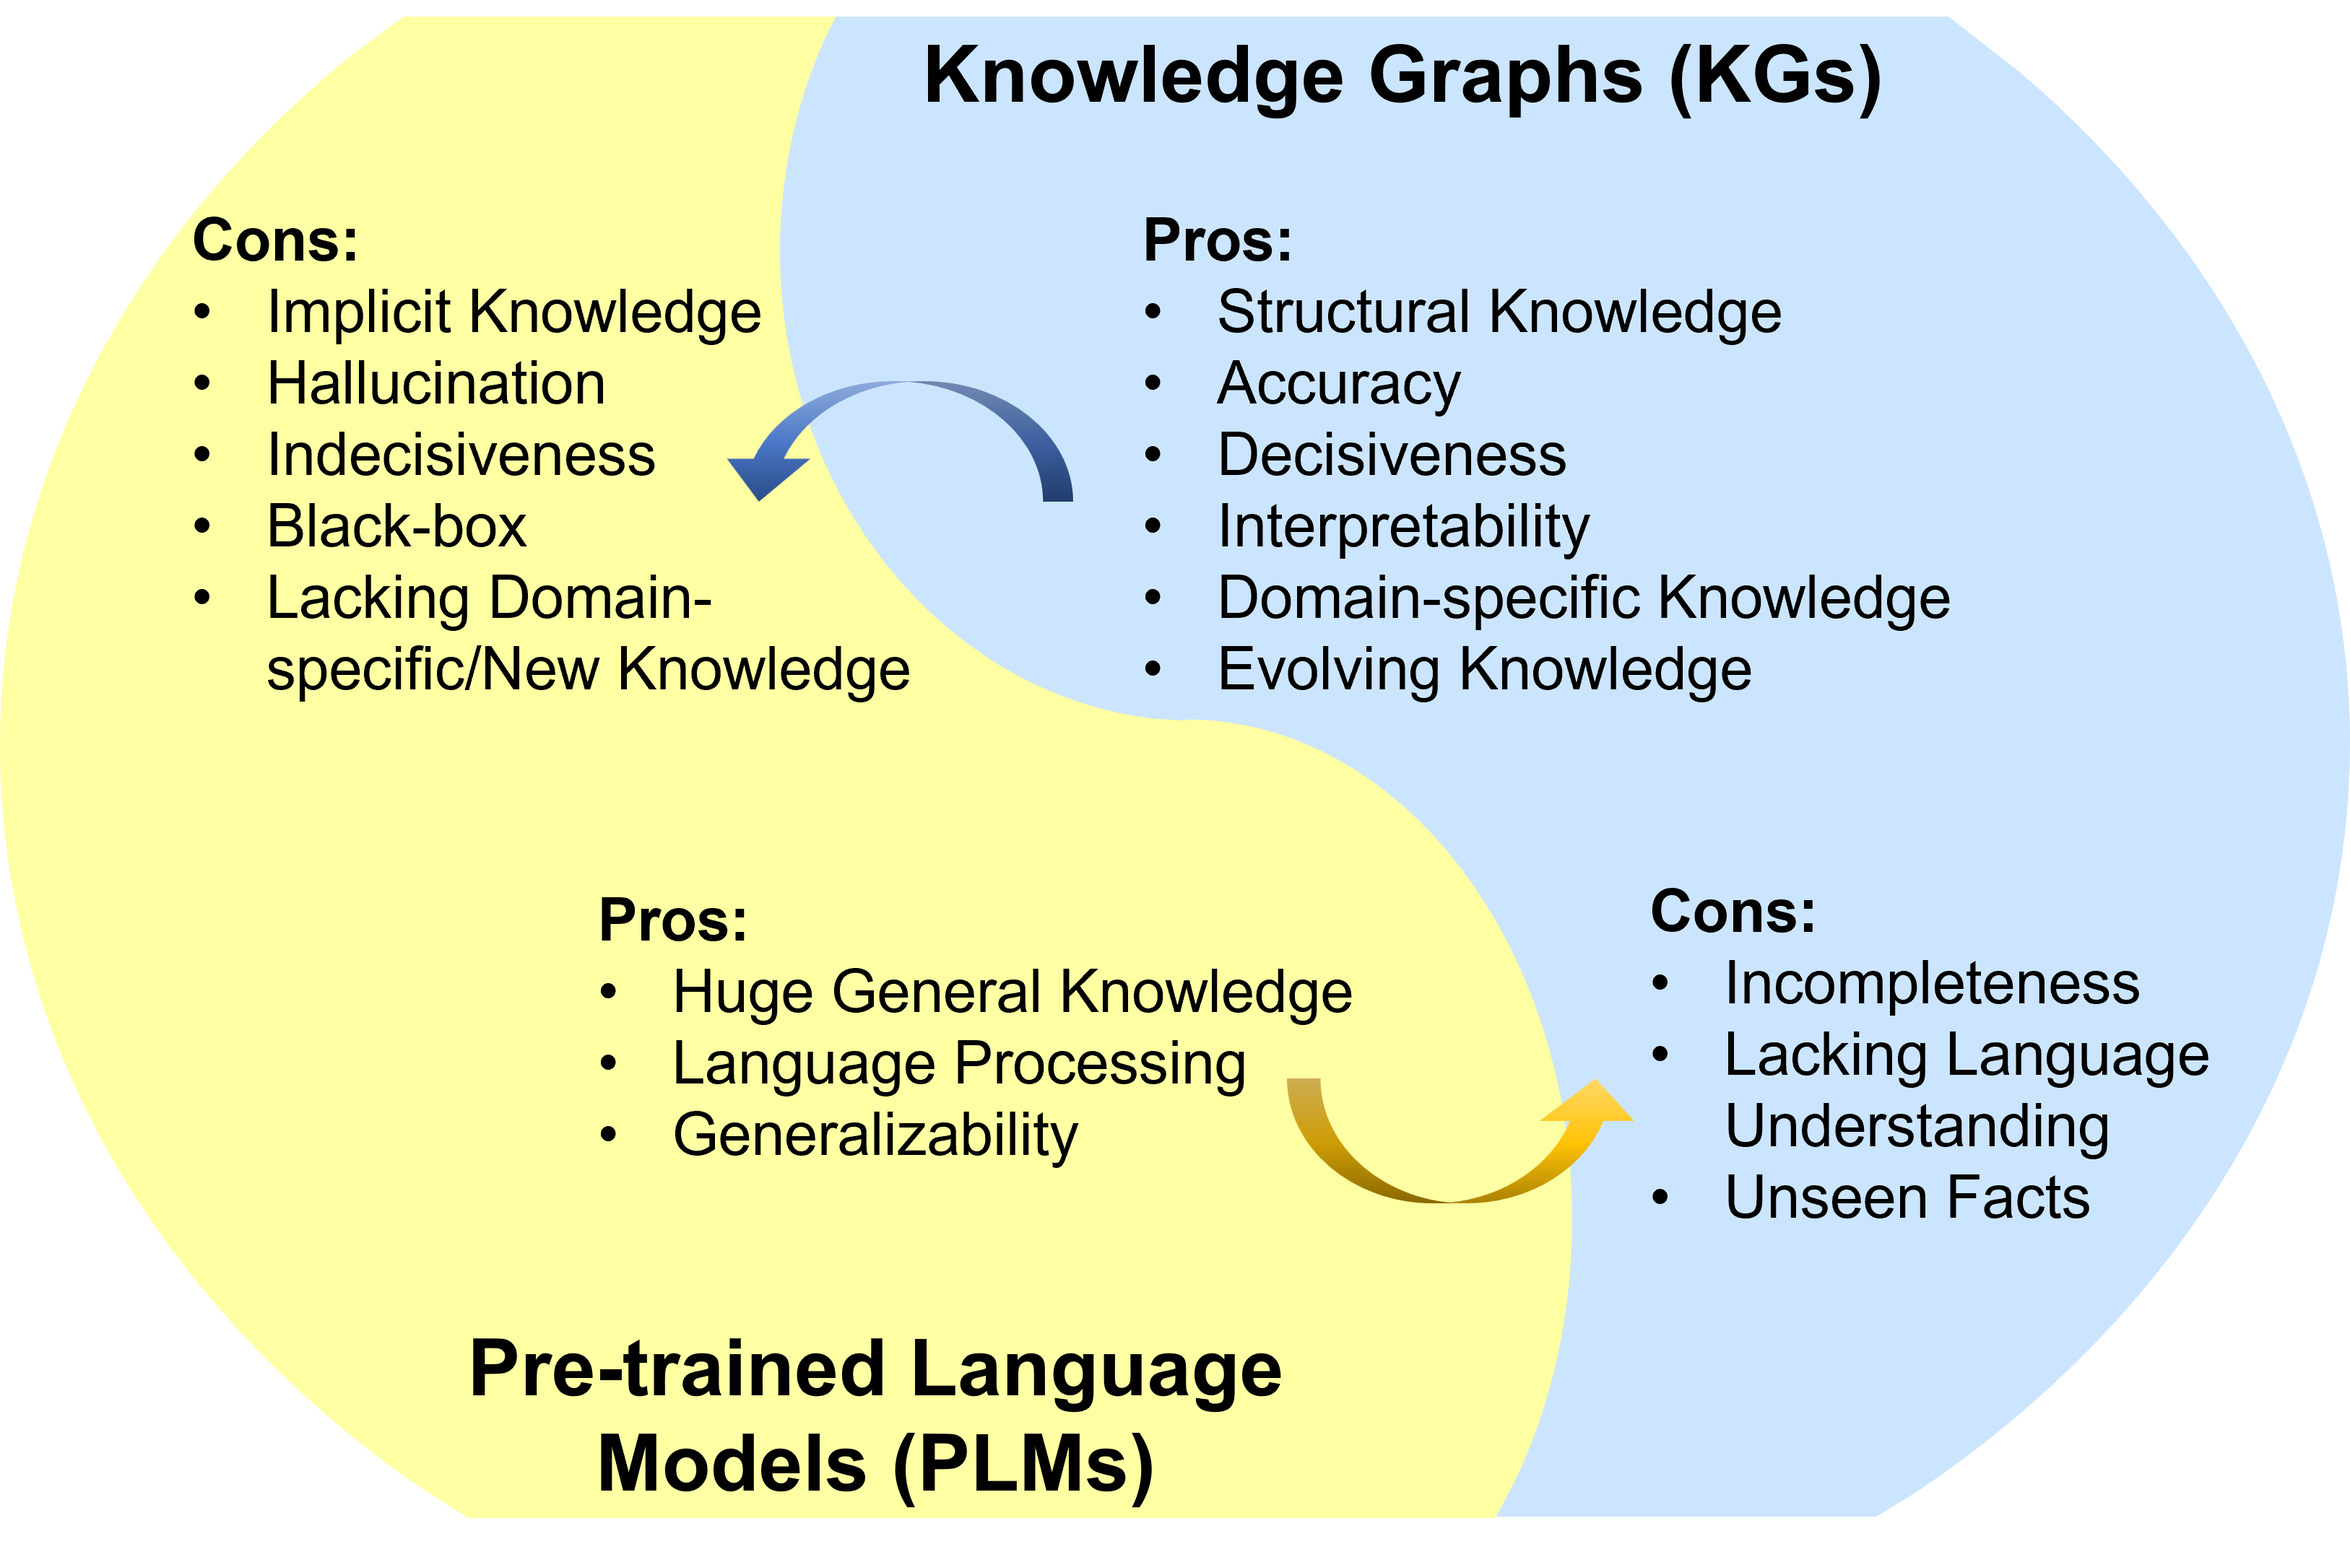
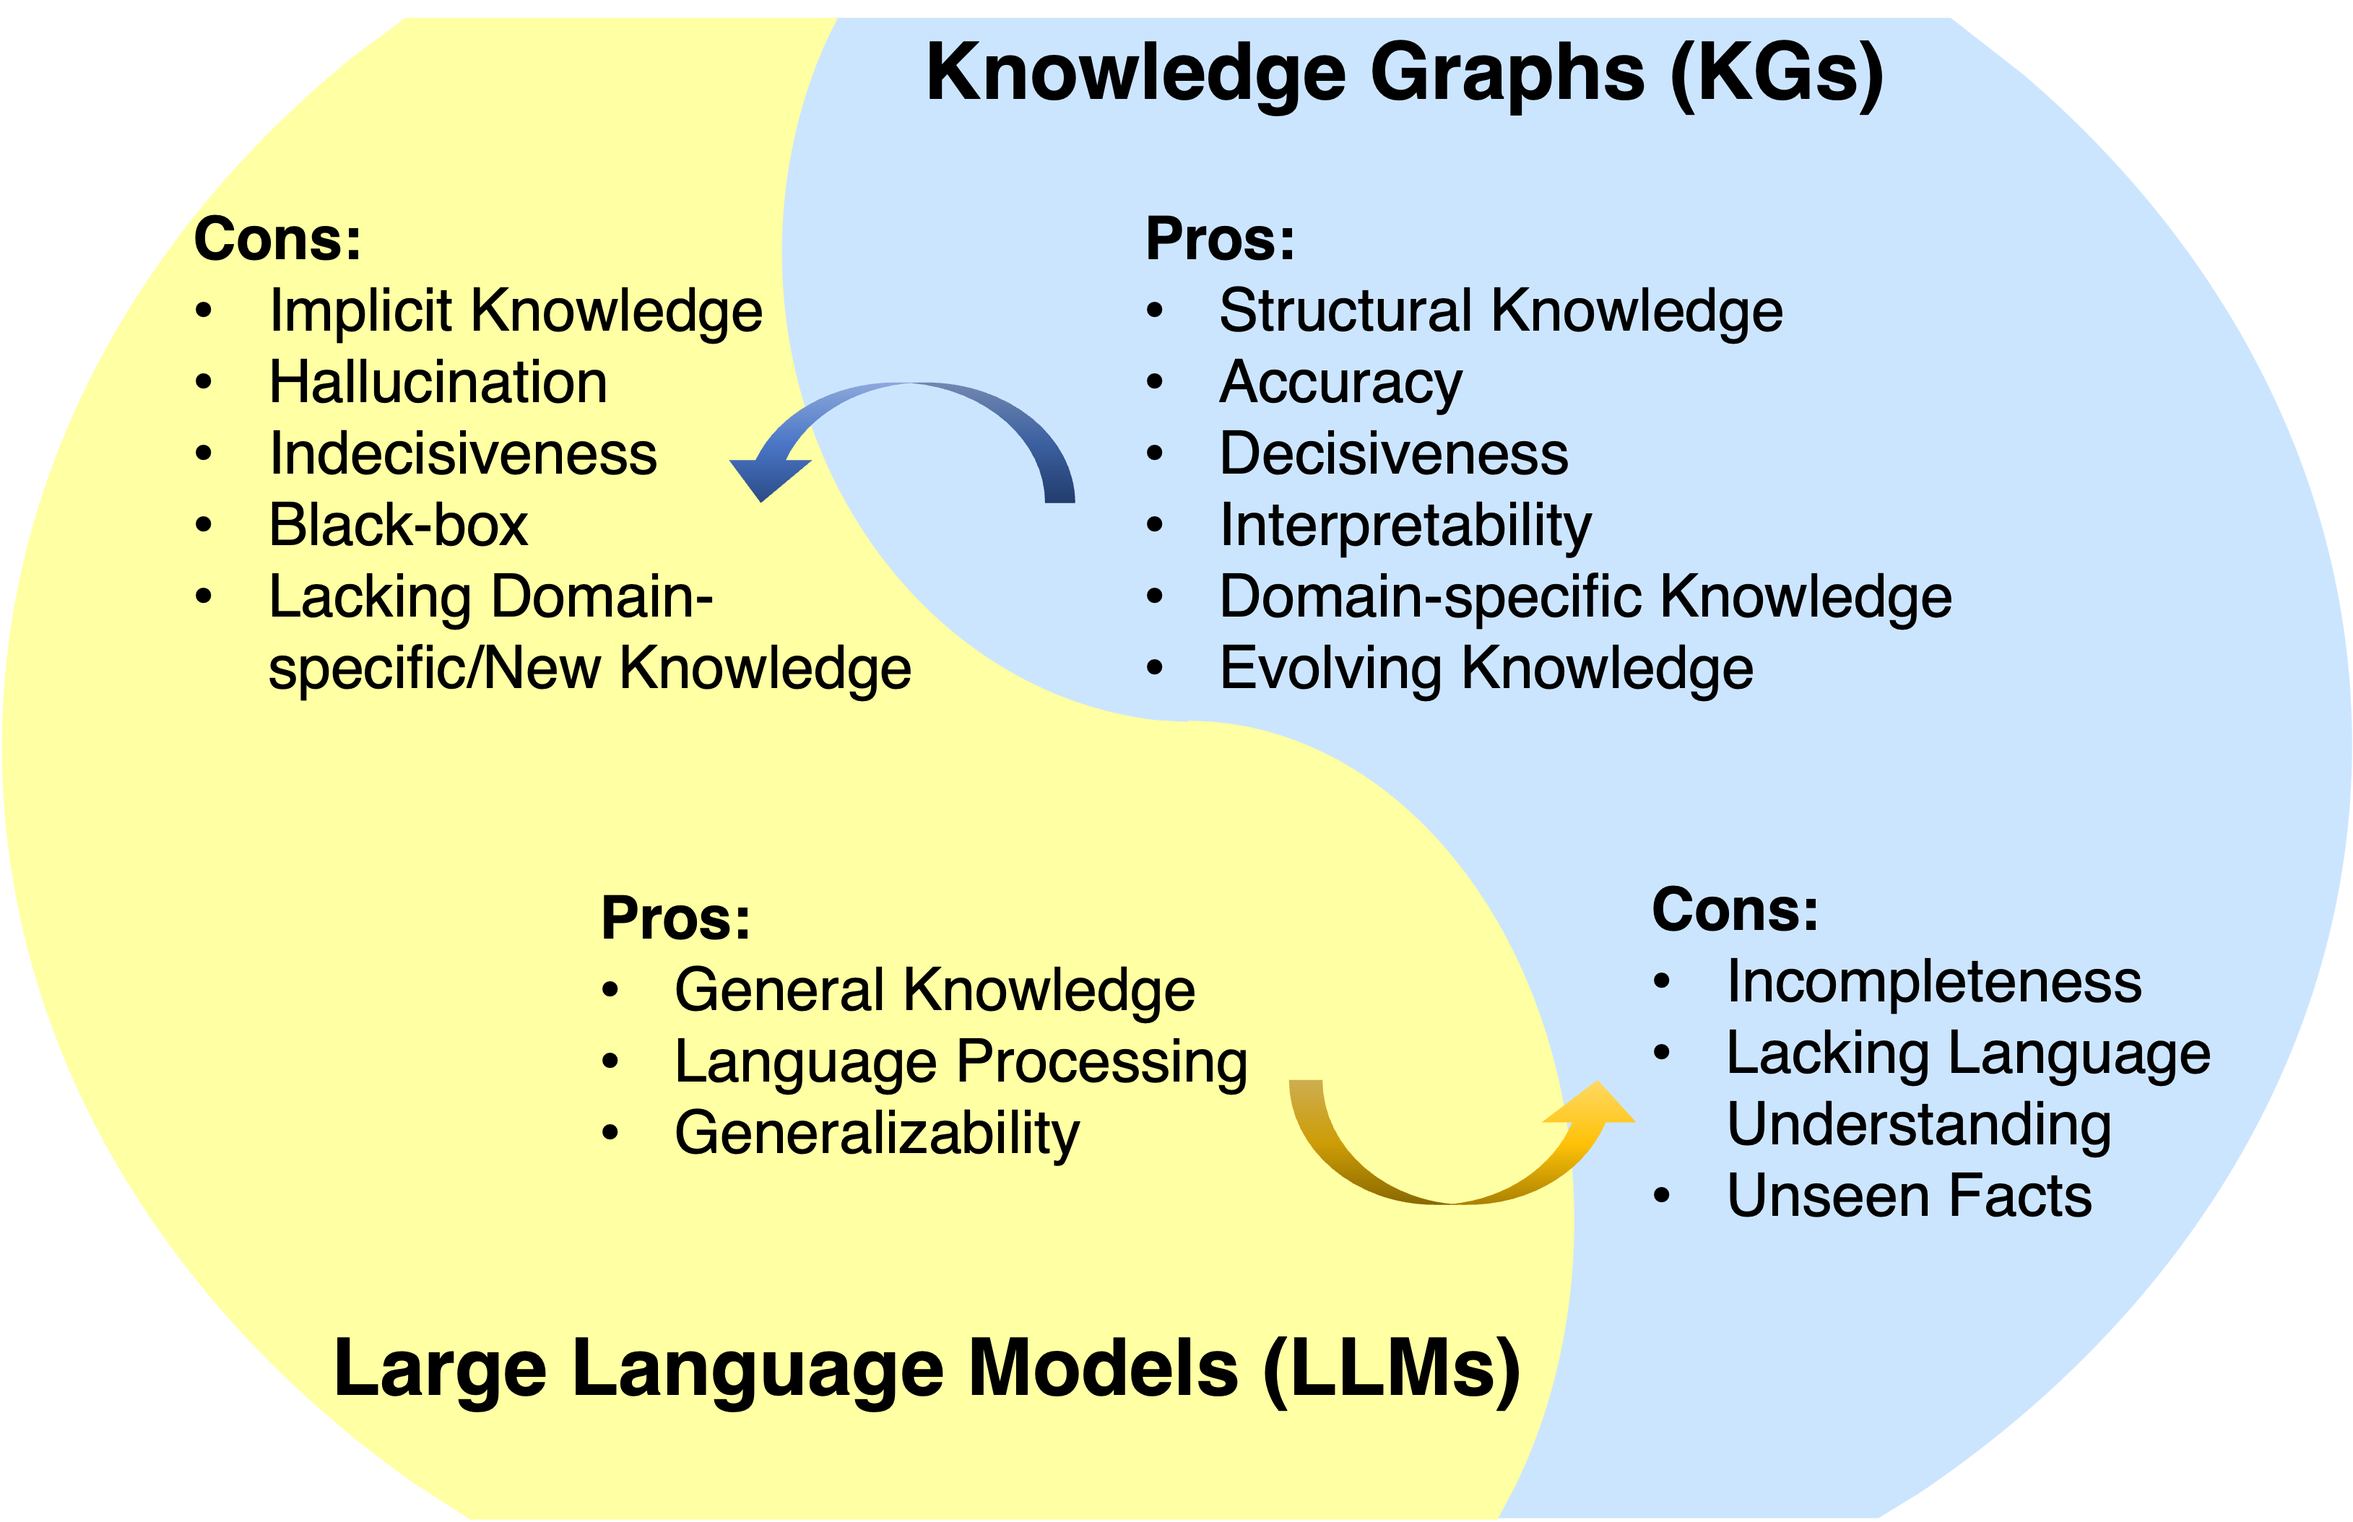
update frameworks

diff --git a/README.md b/README.md
@@ -6,14 +6,17 @@
  ![](https://img.shields.io/github/stars/RManLuo/Awesome-LLM-KG?color=yellow)
 ![](https://img.shields.io/github/forks/RManLuo/Awesome-LLM-KG?color=lightblue) 
 
-A collection of papers and resources about unifying pre-trained language models (PLMs) and knowledge graphs (KGs).
+A collection of papers and resources about unifying large language models (LLMs) and knowledge graphs (KGs).
 
-Large pre-trained language models (PLMs) have achieved remarkable success and generalizability in various applications. However, they often fall short of capturing and accessing factual knowledge. Knowledge graphs (KGs) are structured data models that explicitly store rich factual knowledge. Nevertheless, existing methods in KGs are inadequate in handling the incomplete and dynamically
-changing nature of real-world KGs. Therefore, it is natural to unify PLMs and KGs together and simultaneously leverage their advantages.
+Large language models (LLMs) have achieved remarkable success and generalizability in various applications. However, they often fall short of capturing and accessing factual knowledge. Knowledge graphs (KGs) are structured data models that explicitly store rich factual knowledge. Nevertheless, KGs are hard to construct and existing methods in KGs are inadequate in handling the incomplete and dynamically changing nature of real-world KGs. Therefore, it is natural to unify LLMs and KGs together and simultaneously leverage their advantages.
 
 <img src="figs/PLM_vs_KG.png" width = "600" />
 
-In this repository, we collect recent advances in unifying PLMs and KGs.  We present a roadmap that summarizes three general frameworks: *1) KGs for PLMs*, *2) PLMs for KGs*, and *3) Unified PLMs and KGs*.
+## News
+🔭 This is an under-developing project, you can hit the **STAR** and **WATCH** to follow the updates.
+* Our roadmap paper: 
+
+In this repository, we collect recent advances in unifying LLMs and KGs.  We present a roadmap that summarizes three general frameworks: *1) KG-enhanced LLMs*, *2) LLMs-augmented KGs*, and *3) Synergized LLMs + KGs*.
 
 <img src="figs/roadmap.png" width = "800" />
 
@@ -23,26 +26,27 @@ We also illustrate the involved techniques and applications.
 
 We hope this repository can help researchers and practitioners to get a better understanding of this emerging field. 
 
-🔭 This is an under-developing project, you can hit the **STAR** and **WATCH** to follow the updates.
+
 ## Table of Contents
 - [Awesome-LLM-KG](#awesome-llm-kg)
+  - [News](#news)
   - [Table of Contents](#table-of-contents)
-  - [Surveys](#surveys)
-  - [KGs for PLMs](#kgs-for-plms)
-    - [KGs for PLM Pre-training](#kgs-for-plm-pre-training)
-    - [KGs for PLM Inference](#kgs-for-plm-inference)
-    - [KGs for PLM Interpretability](#kgs-for-plm-interpretability)
+  - [Related Surveys](#related-surveys)
+  - [KG-enhanced PLMs](#kg-enhanced-plms)
+    - [KG-enhanced PLM Pre-training](#kg-enhanced-plm-pre-training)
+    - [KG-enhanced PLM Inference](#kg-enhanced-plm-inference)
+    - [KG-enhanced PLM Interpretability](#kg-enhanced-plm-interpretability)
   - [PLMs for KGs](#plms-for-kgs)
-    - [PLMs for KG Embedding](#plms-for-kg-embedding)
-    - [PLMs for KG Completion](#plms-for-kg-completion)
-    - [PLMs for KG to Text Generation](#plms-for-kg-to-text-generation)
-    - [PLMs for KG Question Answering](#plms-for-kg-question-answering)
-  - [Unified PLMs and KGs](#unified-plms-and-kgs)
+    - [PLM-augmented KG Embedding](#plm-augmented-kg-embedding)
+    - [LLM-augmented KG Completion](#llm-augmented-kg-completion)
+    - [LLM-augmented KG to Text Generation](#llm-augmented-kg-to-text-generation)
+    - [LLM-augmented KG Question Answering](#llm-augmented-kg-question-answering)
+  - [Synergized LLMs + KGs](#synergized-llms--kgs)
     - [Knowledge Representation](#knowledge-representation)
     - [Reasoning](#reasoning)
   - [Applications](#applications)
     - [Recommendation](#recommendation)
-## Surveys
+## Related Surveys
 
 * A Survey on Knowledge-Enhanced Pre-trained Language Models (Arxiv, 2023) [[paper]](https://arxiv.org/pdf/2212.13428.pdf)
 * A Survey of Knowledge-Intensive NLP with Pre-Trained Language Models (Arxiv, 2022) [[paper]](https://arxiv.org/pdf/2202.08772.pdf)
@@ -50,15 +54,15 @@ We hope this repository can help researchers and practitioners to get a better u
 * Generative Knowledge Graph Construction: A Review (Arxiv, 2022) [[paper]](https://arxiv.org/pdf/2210.12714.pdf)
 * Knowledge Enhanced Pretrained Language Models: A Compreshensive Survey (Arxiv, 2021) [[paper]](https://arxiv.org/pdf/2110.08455.pdf)
 
-## KGs for PLMs
-### KGs for PLM Pre-training
+## KG-enhanced PLMs
+### KG-enhanced PLM Pre-training
 
-### KGs for PLM Inference
+### KG-enhanced PLM Inference
 
-### KGs for PLM Interpretability
+### KG-enhanced PLM Interpretability
 
 ## PLMs for KGs
-### PLMs for KG Embedding
+### PLM-augmented KG Embedding
 
 - LambdaKG: A Library for Pre-trained Language Model-Based Knowledge Graph Embeddings (Arxiv, 2023) [[paper]](https://arxiv.org/pdf/2210.00305.pdf)
 - Integrating Knowledge Graph embedding and pretrained Language Models in Hypercomplex Spaces (Arxiv, 2022) [[paper]](https://arxiv.org/pdf/2208.02743.pdf)
@@ -69,7 +73,7 @@ We hope this repository can help researchers and practitioners to get a better u
 - KEPLER: A Unified Model for Knowledge Embedding and
 Pre-trained Language Representation (TACL, 2020) [[paper]](https://arxiv.org/pdf/1911.06136.pdf)
 
-### PLMs for KG Completion
+### LLM-augmented KG Completion
 - KG-BERT: BERT for knowledge graph completion (Arxiv, 2019) [[paper]](http://arxiv.org/abs/1909.03193)
 - Multi-task learning for knowledge graph completion with pre-trained language models (COLING, 2020) [[paper]](https://doi.org/10.18653/v1/2020.coling-main.153)
 - Do pre-trained models benefit knowledge graph completion? A reliable evaluation and a reasonable approach (ACL, 2022) [[paper]](https://doi.org/10.18653/v1/2022.findings-acl.282)
@@ -84,8 +88,8 @@ Pre-trained Language Representation (TACL, 2020) [[paper]](https://arxiv.org/pdf
 - Sequence-to-sequence knowledge graph completion and question answering (ACL, 2022) [[paper]](https://doi.org/10.18653/v1/2022.acl-long.201)
 - Knowledge is flat: A seq2seq generative framework for various knowledge graph completion (COLING, 2022) [[paper]](https://aclanthology.org/2022.coling-1.352)
 - A framework for adapting pre-trained language models to knowledge graph completion (EMNLP, 2022) [[paper]](https://aclanthology.org/2022.emnlp-main.398)
-### PLMs for KG to Text Generation
-### PLMs for KG Question Answering
+### LLM-augmented KG to Text Generation
+### LLM-augmented KG Question Answering
 
 - UniKGQA: Unified Retrieval and Reasoning for Solving Multi-hop Question Answering Over Knowledge Graph (ICLR, 2023) [[paper]](https://arxiv.org/abs/2212.00959)
 - StructGPT: A General Framework for Large Language Model to Reason over Structured Data (Arxiv, 2023) [[paper]](https://arxiv.org/abs/2305.09645)
@@ -98,7 +102,7 @@ Pre-trained Language Representation (TACL, 2020) [[paper]](https://arxiv.org/pdf
 - QA-GNN: Reasoning with Language Models and Knowledge Graphs for Question Answering (NAACL, 2021) [[paper]](https://aclanthology.org/2021.naacl-main.45/)
 
 
-## Unified PLMs and KGs
+## Synergized LLMs + KGs
 ### Knowledge Representation
 * Pre-training language model incorporating domain-specific heterogeneous knowledge into a unified representation (Expert Systems with Applications, 2023) [[paper]](https://www.sciencedirect.com/science/article/pii/S0957417422023879)
 * Deep Bidirectional Language-Knowledge Graph
